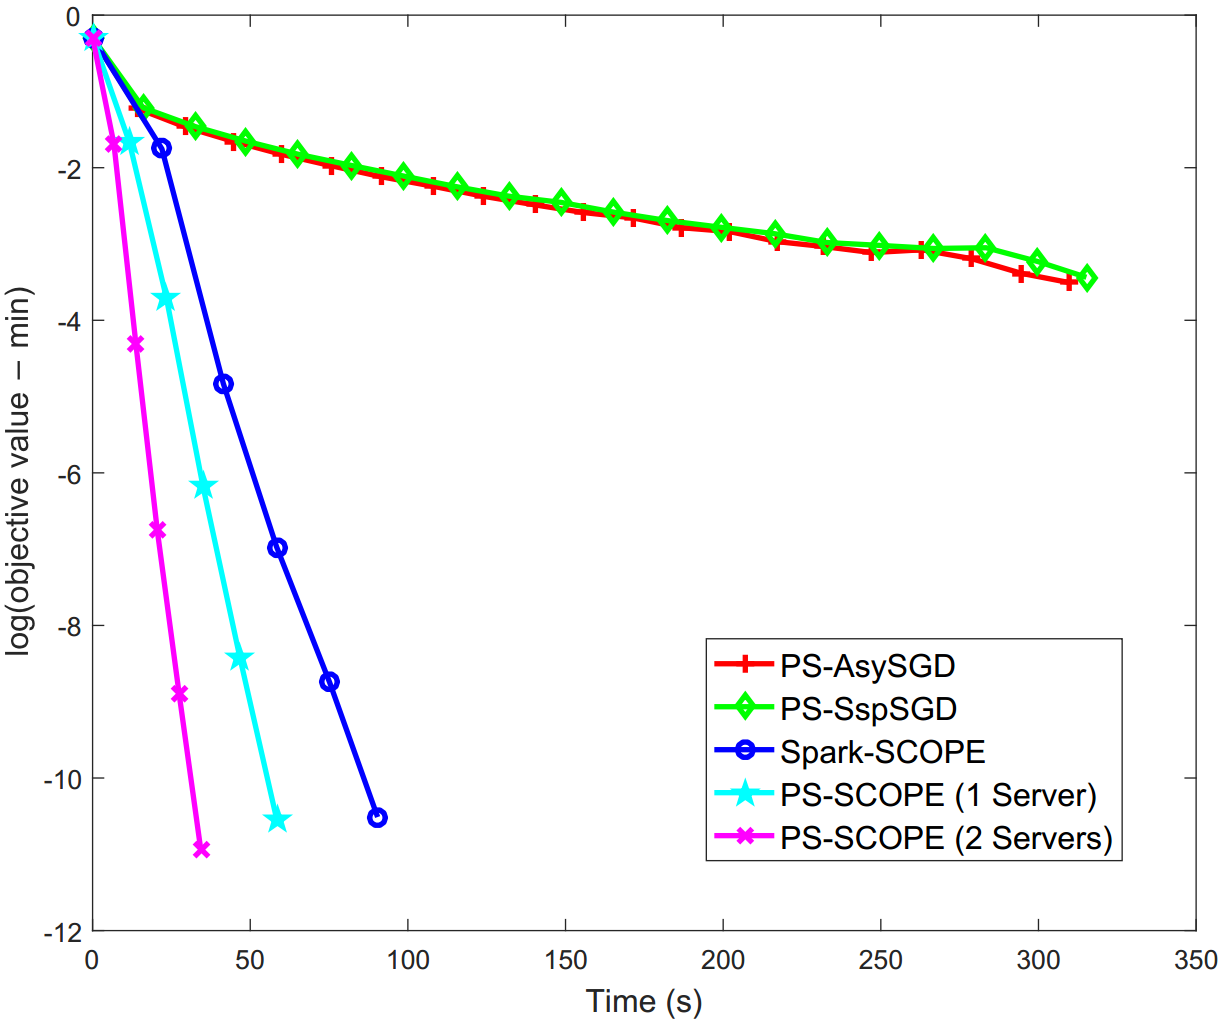
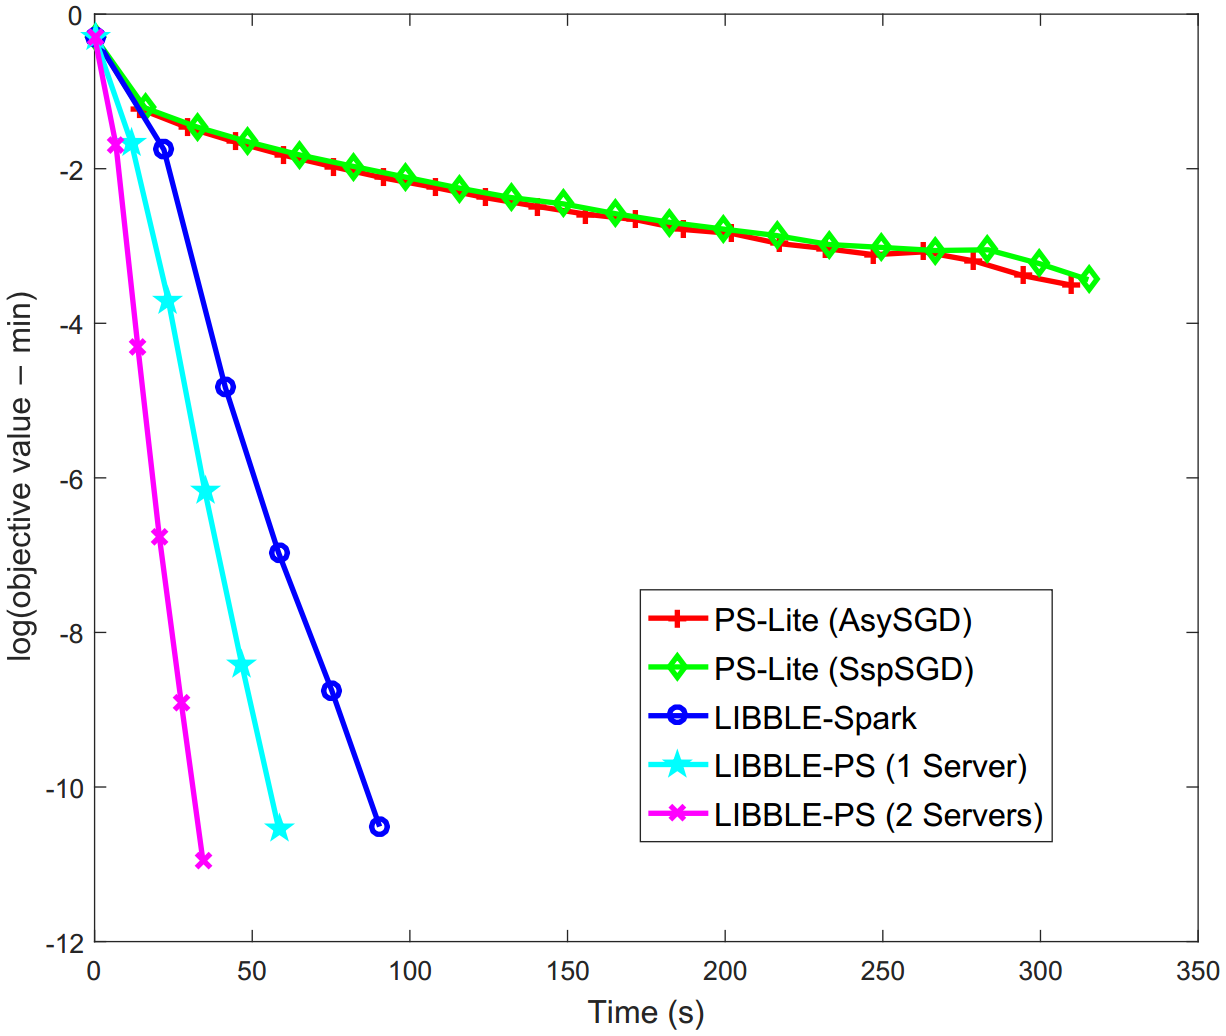
修改名字以及增加10^-5实验

diff --git a/libble-ps/index.html b/libble-ps/index.html
@@ -10,8 +10,8 @@
     <meta name="description" content="A Library for Big Learning">
 
     <link rel="stylesheet" href="/css/main.css">
-    <link rel="canonical" href="https://libble.github.io/libble-ps/">
-    <link rel="alternate" type="application/rss+xml" title="LIBBLE" href="https://libble.github.io/feed.xml" />
+    <link rel="canonical" href="http://localhost:5001/libble-ps/">
+    <link rel="alternate" type="application/rss+xml" title="LIBBLE" href="http://localhost:5001/feed.xml" />
 	<link type="image/x-icon" rel="shortcut icon" href="/images/icon.png" />
     <!-- <link href='https://fonts.googleapis.com/css?family=EB+Garamond' rel='stylesheet' type='text/css'>-->
 	<!-- mathjax config similar to math.stackexchange -->
@@ -202,7 +202,7 @@
 
 <p>The main Learning Engine for LIBBLE-PS is based on a distributed stochastic optimization algorithm called <a href="http://arxiv.org/abs/1602.00133">SCOPE (Scalable Composite OPtimization for lEarning)</a>. LIBBLE-PS can adopt multiple Servers and Workers in the same Parameter Server framework to achieve both data-parallelism and model-parallelism.</p>
 
-<p>We choose logistic regression (LR) with a L2-norm regularization term to evaluate LIBBLE-PS and other baselines. The result on webspam dataset (<span style="color:#b6321c">350,000 points, 16,609,143 dimension</span>) is shown below. Here, PS-AsySGD is the asynchronous SGD based Parameter Server proposed in <a href="http://www.cs.cmu.edu/~muli/file/parameter_server_osdi14.pdf">Mu Li, et al. OSDI 2014</a>. PS-AsySGD is implemented based on <a href="https://github.com/dmlc/ps-lite">ps-lite</a> provided by the authors of <a href="http://www.cs.cmu.edu/~muli/file/parameter_server_osdi14.pdf">Mu Li, et al. OSDI 2014</a>. Most other existing Parameter Server baselines have similar performance as PS-AsySGD. Here, we do not report the performance of them. Spark-SCOPE is the SCOPE implemented on Spark, which is included in LIBBLE-Spark. PS-SCOPE is LIBBLE-PS with the learning engine SCOPE. PS-SCOPE (1 Server) is the PS-SCOPE with one server, and PS-SCOPE (2 Servers) is the PS-SCOPE with two servers. All the methods adopt 16 Workers.</p>
+<p>We choose logistic regression (LR) with a L2-norm regularization term to evaluate LIBBLE-PS and other baselines. The result on webspam dataset (<span style="color:#b6321c">350,000 points, 16,609,143 dimension</span>) is shown below. Here, PS-Lite (AsySGD) and PS-Lite (SspSGD) are asynchronous SGD and bounded delay SGD based on Parameter Server proposed in <a href="http://www.cs.cmu.edu/~muli/file/parameter_server_osdi14.pdf">[Mu Li, et al. OSDI 2014]</a>.  PS-Lite (AsySGD) and PS-Lite (SspSGD) are implemented based on <a href="https://github.com/dmlc/ps-lite">PS-Lite</a> provided by the authors of <a href="http://www.cs.cmu.edu/~muli/file/parameter_server_osdi14.pdf">[Mu Li, et al. OSDI 2014]</a>. Most other existing Parameter Server baselines have similar performance as PS-Lite. Here, we do not report the performance of them. LIBBLE-Spark is the SCOPE implemented on Spark. LIBBLE-PS (1 Server) is the LIBBLE-PS with one server, and LIBBLE-PS (2 Servers) is the LIBBLE-PS with two servers. All the methods adopt 16 Workers.</p>
 
 <div align="center">
 
@@ -210,11 +210,11 @@
 
   </div>
 
-<p>We also report our methods’ speedup compared to PS-AsySGD. The time is recorded when the gap between the objective function value and the optimal value is less than $10^{-4}$. The result of logistic regression with L2-norm on webspam dataset is shown below. All the methods use 16 Workers.</p>
+<p>We also report our methods’ speedup compared to PS-Lite (AsySGD). The time is recorded when the gap between the objective function value and the optimal value is less than $10^{-4}~(10^{-5})$. The result of logistic regression with L2-norm on webspam dataset is shown below. All the methods use 16 Workers.</p>
 
 <div align="center">
 
-  <img src="/images/table.png" width="600px" text-align="center" />
+  <img src="/images/table.png" width="700px" text-align="center" />
 
   </div>
 

diff --git a/blog/2016/11/09/LIBBLE-Spark-1.0.1-update.html b/blog/2016/11/09/LIBBLE-Spark-1.0.1-update.html
@@ -10,8 +10,8 @@
     <meta name="description" content="With the update of  LIBBLE-Spark 1.0.1, we provide High-Dimensional Sparse Data Support!">
 
     <link rel="stylesheet" href="/css/main.css">
-    <link rel="canonical" href="https://libble.github.io/blog/2016/11/09/LIBBLE-Spark-1.0.1-update">
-    <link rel="alternate" type="application/rss+xml" title="LIBBLE" href="https://libble.github.io/feed.xml" />
+    <link rel="canonical" href="http://localhost:5001/blog/2016/11/09/LIBBLE-Spark-1.0.1-update">
+    <link rel="alternate" type="application/rss+xml" title="LIBBLE" href="http://localhost:5001/feed.xml" />
 	<link type="image/x-icon" rel="shortcut icon" href="/images/icon.png" />
     <!-- <link href='https://fonts.googleapis.com/css?family=EB+Garamond' rel='stylesheet' type='text/css'>-->
 	<!-- mathjax config similar to math.stackexchange -->

diff --git a/blog/2016/06/03/LIBBLE-Spark-Online.html b/blog/2016/06/03/LIBBLE-Spark-Online.html
@@ -10,8 +10,8 @@
     <meta name="description" content="LIBBLE-Spark online">
 
     <link rel="stylesheet" href="/css/main.css">
-    <link rel="canonical" href="https://libble.github.io/blog/2016/06/03/LIBBLE-Spark-Online">
-    <link rel="alternate" type="application/rss+xml" title="LIBBLE" href="https://libble.github.io/feed.xml" />
+    <link rel="canonical" href="http://localhost:5001/blog/2016/06/03/LIBBLE-Spark-Online">
+    <link rel="alternate" type="application/rss+xml" title="LIBBLE" href="http://localhost:5001/feed.xml" />
 	<link type="image/x-icon" rel="shortcut icon" href="/images/icon.png" />
     <!-- <link href='https://fonts.googleapis.com/css?family=EB+Garamond' rel='stylesheet' type='text/css'>-->
 	<!-- mathjax config similar to math.stackexchange -->

diff --git a/libble-multithread/index.html b/libble-multithread/index.html
@@ -10,8 +10,8 @@
     <meta name="description" content="A Library for Big Learning">
 
     <link rel="stylesheet" href="/css/main.css">
-    <link rel="canonical" href="https://libble.github.io/libble-multithread/">
-    <link rel="alternate" type="application/rss+xml" title="LIBBLE" href="https://libble.github.io/feed.xml" />
+    <link rel="canonical" href="http://localhost:5001/libble-multithread/">
+    <link rel="alternate" type="application/rss+xml" title="LIBBLE" href="http://localhost:5001/feed.xml" />
 	<link type="image/x-icon" rel="shortcut icon" href="/images/icon.png" />
     <!-- <link href='https://fonts.googleapis.com/css?family=EB+Garamond' rel='stylesheet' type='text/css'>-->
 	<!-- mathjax config similar to math.stackexchange -->

diff --git a/libble-spark/index.html b/libble-spark/index.html
@@ -10,8 +10,8 @@
     <meta name="description" content="A Library for Big Learning">
 
     <link rel="stylesheet" href="/css/main.css">
-    <link rel="canonical" href="https://libble.github.io/libble-spark/">
-    <link rel="alternate" type="application/rss+xml" title="LIBBLE" href="https://libble.github.io/feed.xml" />
+    <link rel="canonical" href="http://localhost:5001/libble-spark/">
+    <link rel="alternate" type="application/rss+xml" title="LIBBLE" href="http://localhost:5001/feed.xml" />
 	<link type="image/x-icon" rel="shortcut icon" href="/images/icon.png" />
     <!-- <link href='https://fonts.googleapis.com/css?family=EB+Garamond' rel='stylesheet' type='text/css'>-->
 	<!-- mathjax config similar to math.stackexchange -->

diff --git a/publications/index.html b/publications/index.html
@@ -10,8 +10,8 @@
     <meta name="description" content="A Library for Big Learning">
 
     <link rel="stylesheet" href="/css/main.css">
-    <link rel="canonical" href="https://libble.github.io/publications/">
-    <link rel="alternate" type="application/rss+xml" title="LIBBLE" href="https://libble.github.io/feed.xml" />
+    <link rel="canonical" href="http://localhost:5001/publications/">
+    <link rel="alternate" type="application/rss+xml" title="LIBBLE" href="http://localhost:5001/feed.xml" />
 	<link type="image/x-icon" rel="shortcut icon" href="/images/icon.png" />
     <!-- <link href='https://fonts.googleapis.com/css?family=EB+Garamond' rel='stylesheet' type='text/css'>-->
 	<!-- mathjax config similar to math.stackexchange -->

diff --git a/downloads/index.html b/downloads/index.html
@@ -10,8 +10,8 @@
     <meta name="description" content="A Library for Big Learning">
 
     <link rel="stylesheet" href="/css/main.css">
-    <link rel="canonical" href="https://libble.github.io/downloads/">
-    <link rel="alternate" type="application/rss+xml" title="LIBBLE" href="https://libble.github.io/feed.xml" />
+    <link rel="canonical" href="http://localhost:5001/downloads/">
+    <link rel="alternate" type="application/rss+xml" title="LIBBLE" href="http://localhost:5001/feed.xml" />
 	<link type="image/x-icon" rel="shortcut icon" href="/images/icon.png" />
     <!-- <link href='https://fonts.googleapis.com/css?family=EB+Garamond' rel='stylesheet' type='text/css'>-->
 	<!-- mathjax config similar to math.stackexchange -->

diff --git a/news/index.html b/news/index.html
@@ -10,8 +10,8 @@
     <meta name="description" content="A Library for Big Learning">
 
     <link rel="stylesheet" href="/css/main.css">
-    <link rel="canonical" href="https://libble.github.io/news/">
-    <link rel="alternate" type="application/rss+xml" title="LIBBLE" href="https://libble.github.io/feed.xml" />
+    <link rel="canonical" href="http://localhost:5001/news/">
+    <link rel="alternate" type="application/rss+xml" title="LIBBLE" href="http://localhost:5001/feed.xml" />
 	<link type="image/x-icon" rel="shortcut icon" href="/images/icon.png" />
     <!-- <link href='https://fonts.googleapis.com/css?family=EB+Garamond' rel='stylesheet' type='text/css'>-->
 	<!-- mathjax config similar to math.stackexchange -->

diff --git a/index.html b/index.html
@@ -10,8 +10,8 @@
     <meta name="description" content="A Library for Big Learning">
 
     <link rel="stylesheet" href="/css/main.css">
-    <link rel="canonical" href="https://libble.github.io/">
-    <link rel="alternate" type="application/rss+xml" title="LIBBLE" href="https://libble.github.io/feed.xml" />
+    <link rel="canonical" href="http://localhost:5001/">
+    <link rel="alternate" type="application/rss+xml" title="LIBBLE" href="http://localhost:5001/feed.xml" />
 	<link type="image/x-icon" rel="shortcut icon" href="/images/icon.png" />
     <!-- <link href='https://fonts.googleapis.com/css?family=EB+Garamond' rel='stylesheet' type='text/css'>-->
 	<!-- mathjax config similar to math.stackexchange -->
